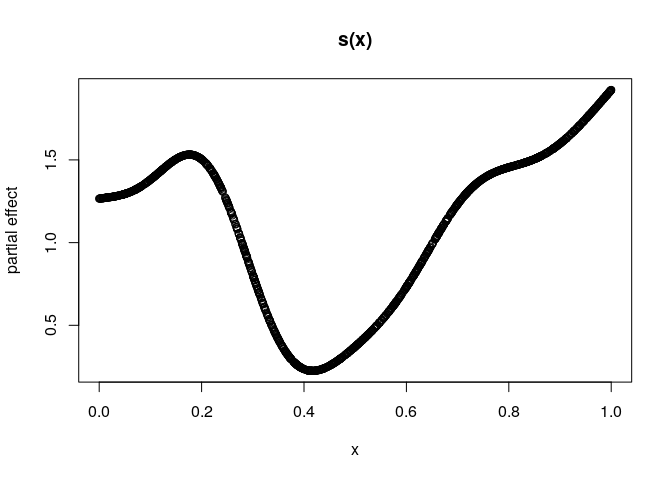
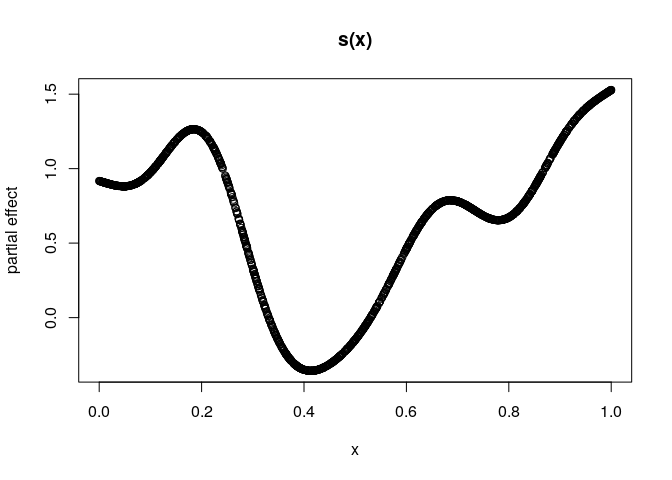
update Markdown

diff --git a/README.md b/README.md
@@ -38,12 +38,12 @@ install_github("davidruegamer/deepregression")
 Examples
 ========
 
-1.  [Deep Linear Regression](#deeplinearregression)
-2.  [Deep Logistic Regression](#deeplogisticregression)
-3.  [Deep GAM](#deepgam)
+1.  [Deep Linear Regression](#deep-linear-regression)
+2.  [Deep Logistic Regression](#deep-logistic-regression)
+3.  [Deep GAM](#deep-gam)
 4.  [GAMLSS](#gamlss)
-5.  [Deep GAMLSS](#deepgamlss)
-6.  [Examples for each Distribution](#examplesforeachdistribution)
+5.  [Deep GAMLSS](#deep-gamlss)
+6.  [Examples for each Distribution](#examples-for-each-distribution)
 
 Deep Linear Regression
 ----------------------
@@ -324,34 +324,34 @@ mod %>% coef()
 
     ## $loc
     ## $loc$structured_nonlinear
-    ##               [,1]
-    ##  [1,]  0.033197686
-    ##  [2,]  0.049622998
-    ##  [3,] -0.052985322
-    ##  [4,] -0.783396900
-    ##  [5,] -0.469053209
-    ##  [6,]  0.329968631
-    ##  [7,] -0.169152096
-    ##  [8,]  0.558192432
-    ##  [9,]  0.285193682
-    ## [10,]  0.719064355
-    ## [11,]  0.204464868
-    ## [12,] -0.329066783
-    ## [13,]  0.116332658
-    ## [14,]  0.012124837
-    ## [15,]  0.215815097
-    ## [16,] -0.047077250
-    ## [17,]  0.214377537
-    ## [18,]  0.069556557
-    ## [19,]  0.169384703
-    ## [20,]  0.493280739
-    ## [21,] -0.008492824
+    ##              [,1]
+    ##  [1,]  0.62338978
+    ##  [2,] -0.23122659
+    ##  [3,]  0.39737102
+    ##  [4,] -1.54779840
+    ##  [5,] -0.56593615
+    ##  [6,] -0.32711539
+    ##  [7,]  0.01970975
+    ##  [8,]  0.94741410
+    ##  [9,]  0.34300226
+    ## [10,]  0.13150308
+    ## [11,]  0.02346712
+    ## [12,] -0.09675598
+    ## [13,]  0.03370579
+    ## [14,]  0.01167439
+    ## [15,]  0.03133864
+    ## [16,] -0.32753223
+    ## [17,] -0.20333517
+    ## [18,] -0.25170255
+    ## [19,] -0.25805160
+    ## [20,]  0.31836420
+    ## [21,]  0.27527043
     ## 
     ## 
     ## $scale
     ## $scale$structured_linear
     ##          [,1]
-    ## [1,] 1.943266
+    ## [1,] 1.944289
 
 ``` r
 # plot model
@@ -461,25 +461,25 @@ mod %>% coef()
 
     ## $loc
     ## $loc$structured_nonlinear
-    ##               [,1]
-    ##  [1,] -0.004862042
-    ##  [2,]  0.085962355
-    ##  [3,] -0.063140228
-    ##  [4,] -1.314705849
-    ##  [5,] -0.687673390
-    ##  [6,] -0.158444047
-    ##  [7,] -0.077457078
-    ##  [8,]  0.457390159
-    ##  [9,]  0.192678884
-    ## [10,]  0.788696706
-    ## [11,]  0.576545537
+    ##              [,1]
+    ##  [1,]  0.16390292
+    ##  [2,]  0.38354141
+    ##  [3,]  0.02230611
+    ##  [4,] -1.26975179
+    ##  [5,] -1.20085287
+    ##  [6,] -0.23791949
+    ##  [7,] -0.43339857
+    ##  [8,]  0.17561966
+    ##  [9,]  0.63289106
+    ## [10,]  0.39866617
+    ## [11,]  0.17214707
     ## 
     ## 
     ## $scale
     ## $scale$structured_linear
-    ##            [,1]
-    ## [1,] -0.1856159
-    ## [2,]  1.8967324
+    ##              [,1]
+    ## [1,] -0.007093212
+    ## [2,]  2.031275988
 
 Examples for each Distribution
 ------------------------------
